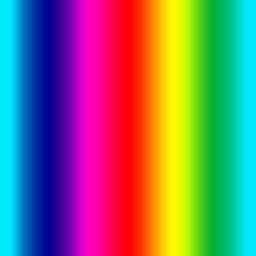
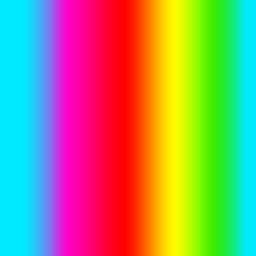
add rainbow render for gauge

diff --git a/web/src/js/game/view/gauge.js b/web/src/js/game/view/gauge.js
@@ -11,6 +11,10 @@ var Layout = {
         top: 143 / 720,
         height: (184 - 143) / 720,
     },
+    rainbow: {
+        length: 0.3,
+        move: 0.05,
+    },
 };
 
 
@@ -19,15 +23,19 @@ export class Gauge {
         this.game = game;
         this.sticker = game.plotter.sticker;
         this.scorekeeper = game.referee.scorekeeper;
+        this.rainbowOffset = 0;
 
         await this.sticker.loadTexture('fill1', '/assets/img/gauge-fill-1.png');
         await this.sticker.loadTexture('fill2', '/assets/img/gauge-fill-2.png');
         await this.sticker.loadTexture('fill3', '/assets/img/gauge-fill-3.png');
+        await this.sticker.loadTexture('rainbow', '/assets/img/rainbow.png');
     }
 
     render(delta) {
         let threshold = this.scorekeeper.gauge.threshold;
         let value = this.scorekeeper.gauge.light;
+
+
         if (value <= threshold) {
             this.sticker.stick(
                 'fill1', 
@@ -37,6 +45,8 @@ export class Gauge {
                 Layout.left.height);
             return;
         }
+
+
         if (value < 50) {
             this.sticker.stick(
                 'fill2', 
@@ -53,6 +63,29 @@ export class Gauge {
             return;
         }
 
+
+        let mid = threshold / 50;
+        this.sticker.stick(
+            'rainbow',
+            Layout.zero,
+            Layout.left.top,
+            threshold * Layout.step,
+            Layout.left.height,
+            this.rainbowOffset, 0,
+            Layout.rainbow.length * mid, 1);
+        this.sticker.stick(
+            'rainbow',
+            Layout.zero + threshold * Layout.step,
+            Layout.right.top,
+            (value - threshold) * Layout.step,
+            Layout.right.height,
+            this.rainbowOffset + Layout.rainbow.length * mid, 0,
+            Layout.rainbow.length * (1 - mid), 1);
+
+        this.rainbowOffset -= Layout.rainbow.move;
+        if (this.rainbowOffset < 0) {
+            this.rainbowOffset += 1;
+        }
     }
 
 }

diff --git a/web/src/js/game/view/judge.js b/web/src/js/game/view/judge.js
@@ -10,8 +10,8 @@ var Layout = {
     },
     last: 200,
     shake: {
-        t: 50,
-        d: 20 / 720,
+        t: 30,
+        d: 10 / 720,
     },
 };
 

diff --git a/web/src/js/game/view/plotter.js b/web/src/js/game/view/plotter.js
@@ -57,7 +57,6 @@ export class Plotter {
 
         setInterval(() => {
             console.log('fps=' + this.fps);
-            
         }, 2000);
     }
 
